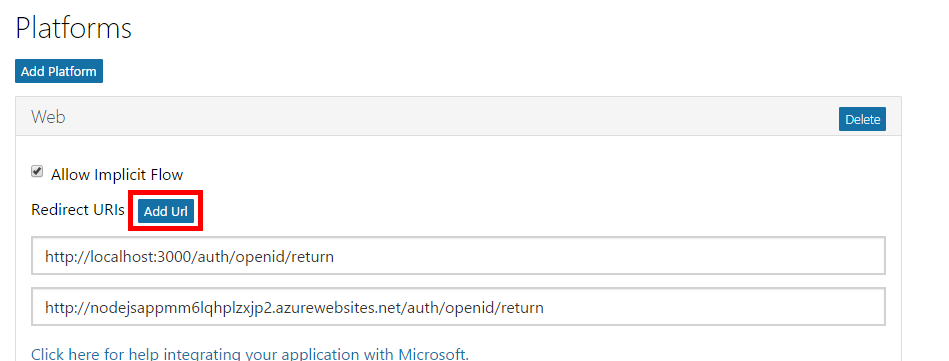
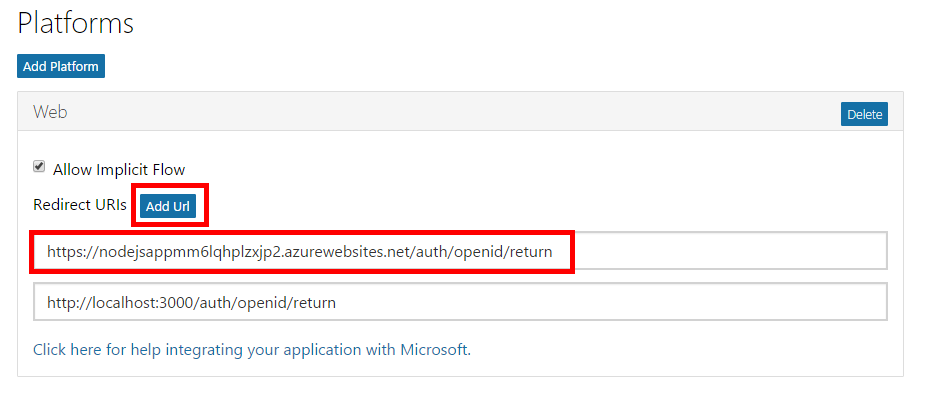
Adjusted http to https for AzureAD

diff --git a/HOL/node/devops-ci/README.md b/HOL/node/devops-ci/README.md
@@ -215,7 +215,7 @@ In the ARM Template that was originally deployed, a web app was created as a dev
 
     ![image](./media/image-032.png)
 
-    In the section for **Platforms**, click **Add Url** to add the URL of your Azure Web App from Step 1.  Remember to append the `/auth/openid/return` route at the end, since that is the route that will process the return data from AzureAD.
+    In the section for **Platforms**, click **Add Url** to add the URL of your Azure Web App from Step 1.  Remember to append the `/auth/openid/return` route at the end, since that is the route that will process the return data from AzureAD. Ensure this address is using **https**.
 
     ![image](./media/image-033.png)
 
@@ -227,7 +227,7 @@ In the ARM Template that was originally deployed, a web app was created as a dev
 
     Find the **App Settings** section containing a table of settings.  In the ARM Template we auto-generated the majority of these settings, however we need to add a few additional environment variables to match the `.vscode/launch.json` file that we have been using locally.
 
-    * **AAD_RETURN_URL** should be set to the same URL that we just configured for our AzureAD application. Should be similar to `http://nodejsappmm6lqhplzxjp2.azurewebsites.net/auth/openid/return`
+    * **AAD_RETURN_URL** should be set to the same URL that we just configured for our AzureAD application. Should be similar to `https://nodejsappmm6lqhplzxjp2.azurewebsites.net/auth/openid/return`. Ensure this is using **https**.
 
     * **AAD_CLIENT_ID** should match launch.json and similar to `2251bd08-10ff-4ca2-a6a2-ccbf2973c6b6`
 
